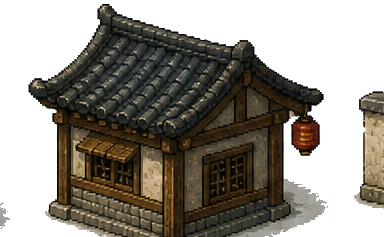
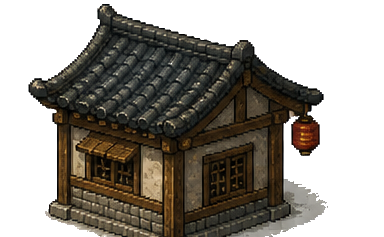
feat: 탁현을 조망도 한 장 기반 배경으로 교체
지금까지 타일을 하나씩 얹어 그리던 탁현을, 새로 그려받은 조망도
한 장(takhyeon_map_v10.png)을 배경으로 깔고 이동/충돌만 별도
38x26 격자로 다루는 방식으로 바꿨다. 기존 타일 조립 방식 탁현 맵
정의는 좌표 이력 보존용으로 비활성 처리해 남겨두고, 그 위에 새
맵 정의를 추가했다.

- 관아·민가·장터 나무·주막·유원기 집·유비 막사·남동 황건적 은신처에
  충돌 판정
- 일반 주민(roadOnly)과 탁현 무작위 등장 장수는 도로 칸에서만 배회/생성
- 유비·유원기는 등용/사건 해결 후에도 탁현 장면에서는 막사·자택 앞에
  계속 고정 표시
- 노식·공융은 발견 전엔 장터에 섞여 있다가 발견 후 나란한 민가 앞으로
  이동 (소쌍/장세평 분리, 간옹·관해·무안국·등무·정원지 사건은 그대로
  보존)
- 배경 이미지가 있는 맵은 기존 타일 낱장 그리기 대신 배경 한 장 +
  랜드마크 이름표만 그리도록 렌더 경로 분기 (평원현/호로관은 기존
  방식 그대로 유지)
- 장터 나무·주막·좌판 등 기존 소품 이미지 일부도 새 배경과 톤이
  맞도록 다시 그려받은 버전으로 교체

field-assets.js는 매니페스트에 새 배경 키만 추가했고, 지난 커밋에서
고친 HD 스프라이트 경계 번짐 방지 로직은 그대로 유지했다.

Claude-Session: https://claude.ai/code/session_01Ks2N2nxAzhVC99dxUfpqD7

Changed region(s): [[0.9062, 0.384, 1.0, 0.8861], [0.0, 0.8565, 0.0312, 0.9747]]

diff --git a/js/data/maps.js b/js/data/maps.js
@@ -11,11 +11,11 @@ function makeGrid(w, h, base) {
 
 const MAPS = {};
 
-// ---------------- 탁현 : 확장 성읍 v2 (그래픽 초기화 - 흙바닥+성벽만 남긴 상태) ----------------
+// ---------------- 탁현 : 이전 빈 바탕 자료 (비활성, 좌표 이력 보존용) ----------------
 // 28x20(560칸)에서 40x28(1120칸)로 확장. 정확히 2배 면적이다.
 // 건물/좌판/나무 등 개별 그래픽은 전부 제거하고, 성벽으로 둘러싼 흙바닥만 남겨
 // 다음 라운드에 그래픽을 하나씩 다시 얹기 위한 깨끗한 바탕으로 삼는다.
-(function () {
+if (false) (function () {
   const w = 40, h = 28;
   const grid = makeGrid(w, h, 0); // 내부는 전부 흙바닥(0)으로 트여있다.
 
@@ -90,6 +90,76 @@ const MAPS = {};
       { archetype:'child', x:22, y:20, palette:'dust', wander:2 },
       { archetype:'guard', x:31, y:14, palette:'iron', wander:1 },
     ],
+  };
+})();
+
+// ---------------- 탁현 : 조망도 기반 통합 성읍 ----------------
+// 완성된 조망도를 38x26 격자와 맞춘다. 그림과 충돌/인물은 별도 레이어다.
+(function () {
+  const w = 38, h = 26;
+  const grid = makeGrid(w, h, 0);
+
+  // 도로망: 북문-장터 주도로, 동서대로, 관아/민가/주막/막사/숲길.
+  for (const r of [
+    [17,2,20,25],[1,11,36,13],[2,14,16,17],[21,14,31,17],[21,18,34,20],
+    [28,20,34,24],[4,8,16,10],[23,8,36,10],[25,5,26,10],[32,5,33,10],
+  ]) rectFill(grid, ...r, 1);
+
+  // 외곽, 관아, 북동 민가, 장터, 주막, 유원기 집, 유비 막사, 작은 황건적 은신처.
+  for (const r of [
+    [0,0,w-1,0,4],[0,h-1,w-1,h-1,4],[0,0,0,h-1,4],[w-1,0,w-1,h-1,4],
+    [1,1,16,3,4],[21,1,36,3,4],
+    [6,4,13,7,2],[3,5,5,7,2],[2,3,15,3,4],[2,4,2,9,4],[15,4,15,8,4],
+    [24,4,28,7,2],[30,4,35,7,2],[24,8,28,10,2],[30,8,35,10,2],
+    [19,11,21,14,4],[5,14,7,15,2],[9,14,12,15,2],[14,14,15,16,2],
+    [3,19,13,23,2],[19,19,27,23,2],[28,14,34,17,2],
+    [31,21,32,22,2],[35,22,36,24,2],
+  ]) rectFill(grid, r[0], r[1], r[2], r[3], r[4]);
+  for (const [x,y] of [[28,22],[29,24],[35,20],[36,19],[36,22],[27,24]]) grid[y][x] = 4;
+
+  MAPS.takhyeon = {
+    name:'탁현 · 장터', width:w, height:h, tiles:grid,
+    backgroundKey:'takhyeon_city_overview',
+    playerStart:{ x:18, y:16 },
+    camera:{ viewportW:800, viewportH:480 },
+    decor:[
+      { type:'mapLabel', x:9.0, y:8.5, label:'탁현 관아' },
+      { type:'mapLabel', x:7.5, y:23.5, label:'주막' },
+      { type:'mapLabel', x:23.0, y:23.0, label:'유원기의 집' },
+      { type:'mapLabel', x:31.0, y:18.2, label:'유비 세력 막사' },
+      { type:'mapLabel', x:25.5, y:8.4, label:'민가', residenceId:'noshik' },
+      { type:'mapLabel', x:32.5, y:8.4, label:'민가', residenceId:'gongyung' },
+      { type:'mapLabel', x:33.2, y:24.0, label:'황건적 은신처' },
+    ],
+    areaLabels:[
+      { x:9, y:10.4, text:'관아 앞길' }, { x:18.8, y:10.4, text:'탁현 장터' },
+      { x:29.2, y:10.4, text:'민가 골목' }, { x:30.0, y:20.1, text:'남동 숲길' },
+    ],
+    npcs:[
+      { id:'yubi', x:29, y:18, label:'유비', fixed:true },
+      { id:'chujeong', x:14, y:12, label:'추정', randomSpawn:true },
+      { id:'noshik', x:16, y:12, label:'', discoverable:true, fixed:true, discoveryRange:2,
+        discoveryText:'장터의 큰 나무 곁에서 소란에 아랑곳하지 않고 책을 읽는 범상치 않은 선비가 보인다.',
+        residence:{ x:25, y:11, label:'노식의 집' } },
+      { id:'yuwongi', x:22, y:24, label:'유원기', fixed:true },
+      { id:'sossang', x:12, y:16, label:'소쌍', fixed:true },
+      { id:'jangsepyeong', x:14, y:17, label:'장세평', fixed:true },
+      { id:'gongyung', x:11, y:12, label:'', discoverable:true, fixed:true, discoveryRange:2,
+        discoveryText:'시장 좌판 옆에서 사람들의 언쟁을 조용히 듣던 선비가 문득 핵심을 찌르는 말을 던진다.',
+        residence:{ x:32, y:11, label:'공융이 머무는 집' } },
+      { id:'ganong', x:18, y:12, label:'간옹', randomSpawn:true },
+      { id:'gwanhae', x:30, y:21, label:'관해(황건적 잔당)' },
+      { id:'muangug', x:27, y:13, label:'무안국' },
+      { id:'deungmu', x:33, y:23, label:'등무(황건적 두목)', fixed:true },
+      { id:'jeongwonji', x:23, y:18, label:'정원지(황건적 잔당)', storyGate:'jeongwonjiEvent' },
+    ],
+    ambient:[
+      ['merchant',8,13,'ash',2],['farmer',12,12,'earth',3],['woman',15,13,'ash',2],
+      ['elder',18,9,'earth',2],['porter',22,13,'ash',3],['farmer',25,12,'earth',2],
+      ['merchant',7,16,'ash',2],['child',17,16,'dust',2],['guard',18,4,'iron',2],
+      ['guard',20,4,'iron',2],['woman',27,13,'dust',2],['porter',23,18,'earth',2],
+      ['farmer',4,12,'ash',2],['merchant',14,17,'earth',2],
+    ].map(([archetype,x,y,palette,wander]) => ({ archetype,x,y,palette,wander,roadOnly:true })),
   };
 })();
 
@@ -195,4 +265,3 @@ const MAPS = {};
     ],
   };
 })();
-

diff --git a/js/engine/mapview.js b/js/engine/mapview.js
@@ -121,7 +121,9 @@ const MapView = (function () {
         if (!GameState.npcVisible[n.id]) return false;
       }
       const status = GameState.npcStatus[n.id];
-      if (status === 'recruited' || status === 'resolved' || status === 'dead' || status === 'fled') return false;
+      const fixedInTakhyeon = id === 'takhyeon' && (n.id === 'yubi' || n.id === 'yuwongi');
+      if (status === 'dead' || status === 'fled') return false;
+      if ((status === 'recruited' || status === 'resolved') && !fixedInTakhyeon) return false;
       if (n.randomSpawn && !GameState.npcSpawnPos[n.id]) return false; // 아직 등장 시점이 되지 않음
       if (n.storyGate && !GameState.flags[n.storyGate]) return false; // 특정 스토리 이벤트 전에는 등장하지 않음
       return true;
@@ -154,7 +156,7 @@ const MapView = (function () {
         const nx = p.x + dx, ny = p.y + dy;
         const radius = p.wander == null ? 2 : p.wander;
         if (Math.abs(nx-p._homeX) > radius || Math.abs(ny-p._homeY) > radius) continue;
-        if (!isWalkable(nx, ny)) continue;
+        if (!isNpcWalkable(p, nx, ny)) continue;
         if (Math.round(nx) === player.x && Math.round(ny) === player.y) continue;
         p.x = nx; p.y = ny; p._dir = dir;
       }
@@ -192,6 +194,13 @@ const MapView = (function () {
     return !TILE_BLOCKED[tile];
   }
 
+  function isNpcWalkable(person, x, y) {
+    if (!isWalkable(x, y)) return false;
+    if (person && person.roadOnly === false) return true;
+    const row = map.tiles[Math.round(y)];
+    return !person || !person.roadOnly || (!!row && row[Math.round(x)] === 1);
+  }
+
   function tileMoveCost(x, y) {
     const tile = map.tiles[Math.round(y)] && map.tiles[Math.round(y)][Math.round(x)];
     return TILE_ROUGH[tile] ? 2 : 1;
@@ -200,9 +209,13 @@ const MapView = (function () {
   function render() {
     if (!map) return;
     ctx.clearRect(0, 0, canvas.width, canvas.height);
-    drawGround();
-    drawBackDecor();
+    if (map.backgroundKey) drawMapBackground();
+    else {
+      drawGround();
+      drawBackDecor();
+    }
     drawAreaLabels();
+    if (map.backgroundKey) drawMapLandmarkLabels();
 
     const actors = [];
     crowd.forEach((p, idx) => actors.push({ type:'ambient', y:p.y, data:p, idx }));
@@ -219,8 +232,20 @@ const MapView = (function () {
       else drawHero();
     }
 
-    drawFrontDecor();
+    if (!map.backgroundKey) drawFrontDecor();
     drawLocationRibbon();
+  }
+
+  function drawMapBackground() {
+    FieldAssets.draw(ctx,map.backgroundKey,worldX(0),worldY(0),map.width*TILE,map.height*TILE);
+  }
+
+  function drawMapLandmarkLabels() {
+    for (const d of (map.decor || [])) {
+      if (d.type !== 'mapLabel') continue;
+      const label = decorLabel(d);
+      if (label) drawTag(worldX(d.x), worldY(d.y), label, 'rgba(50,40,29,.82)');
+    }
   }
 
   function drawGround() {
@@ -547,6 +572,7 @@ const MapView = (function () {
       const x = 1 + Math.floor(Math.random() * (map.width - 2));
       const y = 1 + Math.floor(Math.random() * (map.height - 2));
       if (!isWalkable(x, y)) continue;
+      if (mapId === 'takhyeon' && map.tiles[y][x] !== 1) continue;
       if (x === player.x && y === player.y) continue;
       if (npcAt(x, y)) continue;
       return { x, y };

diff --git a/index.html b/index.html
@@ -285,15 +285,15 @@
 
 <script src="js/data/roster.js"></script>
 <script src="js/data/skills.js"></script>
-<script src="js/data/maps.js"></script>
+<script src="js/data/maps.js?v=takhyeon-city-2"></script>
 <script src="js/data/story.js"></script>
 <script src="js/engine/state.js"></script>
 <script src="js/engine/battle-events.js"></script>
 <script src="js/engine/dialogue.js"></script>
 <script src="js/engine/battle.js"></script>
 <script src="js/engine/battle-vfx.js"></script>
-<script src="js/engine/field-assets.js"></script>
-<script src="js/engine/mapview.js"></script>
+<script src="js/engine/field-assets.js?v=takhyeon-city-2"></script>
+<script src="js/engine/mapview.js?v=takhyeon-city-2"></script>
 <script src="js/main.js"></script>
 </body>
 </html>

diff --git a/js/engine/field-assets.js b/js/engine/field-assets.js
@@ -43,6 +43,7 @@ const FieldAssets = (function () {
     takhyeon_house_common:'takhyeon_house_common.png',
     takhyeon_fence_common:'takhyeon_fence_common.png',
     takhyeon_vegetation_edge:'takhyeon_vegetation_edge.png',
+    takhyeon_city_overview:'takhyeon_map_v10.png',
     v6_camp_yubi:'v6_camp_yubi.png',
     v6_house_front:'v6_house_front.png',
     v6_house_side:'v6_house_side.png',
